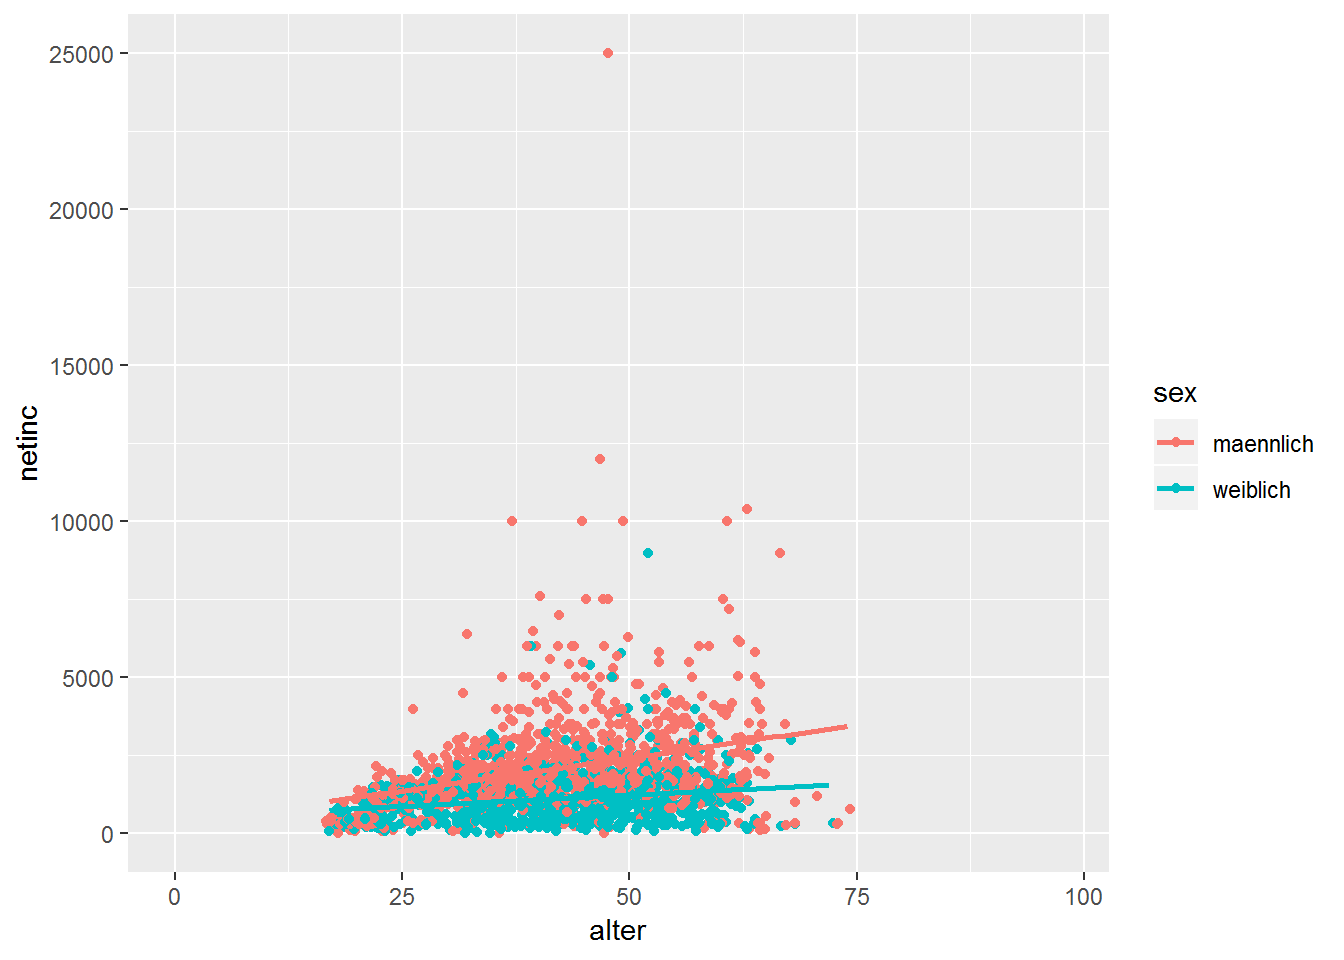
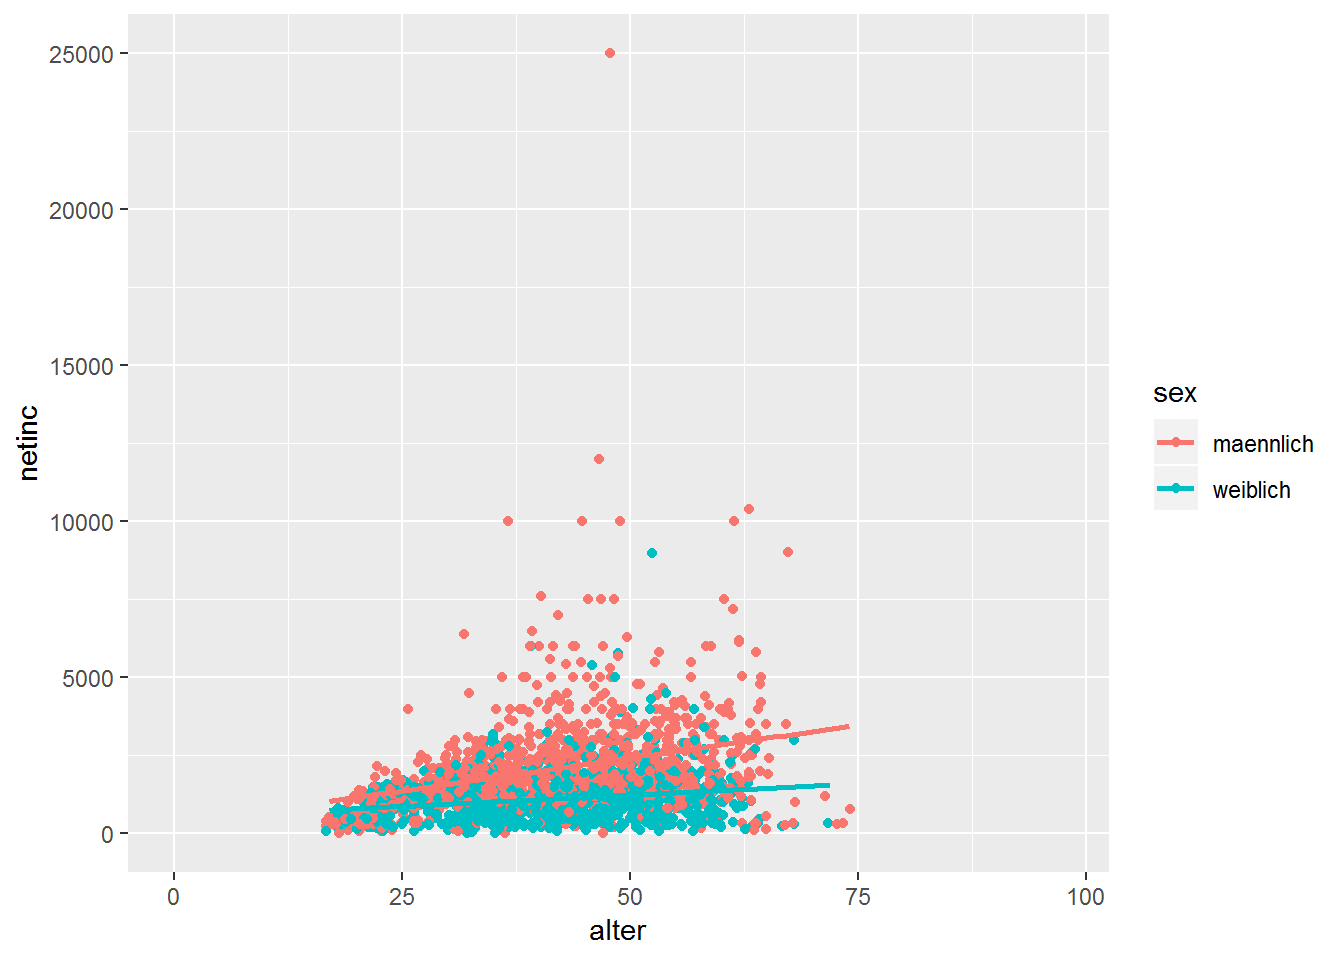
jekyll!

diff --git a/docs/datamanagement.html b/docs/datamanagement.html
@@ -499,12 +499,12 @@ econ$netinc = recode(econ$tp7602,&quot;-3=NA;-2=NA;-1=NA&quot;)
 econ_data &lt;- econ[,c(&quot;netinc&quot;,&quot;alter&quot;,&quot;sex&quot;,&quot;contract&quot;,&quot;actual&quot;,&quot;trust&quot;,&quot;rely&quot;)]
 head(econ_data)</code></pre>
 <pre><code>##       netinc alter      sex contract actual trust rely
-## 10502   1250    27 weiblich     40.0     55     2    4
-## 2853    1800    50 weiblich     38.5     45     2    3
-## 11107   2005    38 männlich     37.5     40     2    2
-## 12494     NA     3 männlich       NA     NA    NA   NA
-## 12655     NA    23 weiblich       NA     NA     3    2
-## 1530      NA    59 weiblich       NA     NA     2    3</code></pre>
+## 11517    500    51 männlich       NA     60     3    2
+## 9085      NA    74 männlich       NA     NA     2    3
+## 93        NA    54 weiblich       NA     NA     2    3
+## 3296    2177    63 männlich     38.5     40     2    3
+## 1811     437    20 weiblich     38.5     39     2    3
+## 2238    1800    56 männlich     40.0     40     2    3</code></pre>
 <pre class="r"><code># Delete NAs
 econ_data &lt;- na.omit(econ_data)
 
@@ -513,8 +513,8 @@ econ_data &lt;- na.omit(econ_data)
 hist(econ$netinc)</code></pre>
 <p><img src="datamanagement_files/figure-html/unnamed-chunk-2-1.png" width="672" /></p>
 <pre class="r"><code>quantile(econ_data$netinc)</code></pre>
-<pre><code>##      0%     25%     50%     75%    100% 
-##     0.0   800.0  1300.0  1838.5 10000.0</code></pre>
+<pre><code>##       0%      25%      50%      75%     100% 
+##     0.00   832.50  1350.00  1863.75 10388.00</code></pre>
 <pre class="r"><code>econ_data$inc_kat &lt;- NA
 econ_data$inc_kat [econ_data$netinc &lt; quantile(econ_data$netinc)[2]] &lt;- &quot;Q1&quot;
 econ_data$inc_kat [econ_data$netinc &gt;= quantile(econ_data$netinc)[2] &amp; econ_data$netinc &lt; quantile(econ_data$netinc)[3]] &lt;- &quot;Q2&quot;
@@ -524,7 +524,7 @@ econ_data$inc_kat [econ_data$netinc &gt;= quantile(econ_data$netinc)[4] ] &lt;- 
 table(econ_data$inc_kat)</code></pre>
 <pre><code>## 
 ##  Q1  Q2  Q3  Q4 
-## 421 409 451 427</code></pre>
+## 419 412 424 419</code></pre>
 </div>
 <div id="advanced-dm-the-tidyverse" class="section level1">
 <h1><span class="header-section-number">3</span> Advanced DM: The tidyverse</h1>
@@ -538,12 +538,12 @@ table(econ_data$inc_kat)</code></pre>
 
 head(econ_data)</code></pre>
 <pre><code>##   netinc alter      sex contract actual trust rely inc_kat alter_squared
-## 1   1250    27 weiblich     40.0     55     2    4      Q2           729
-## 2   1800    50 weiblich     38.5     45     2    3      Q3          2500
-## 3   2005    38 männlich     37.5     40     2    2      Q4          1444
-## 4    325    32 weiblich      8.0      9     3    3      Q1          1024
-## 5   1300    46 männlich     40.0     50     2    2      Q3          2116
-## 6    600    42 männlich     40.0     40     2    3      Q1          1764</code></pre>
+## 1   2177    63 männlich     38.5     40     2    3      Q4          3969
+## 2    437    20 weiblich     38.5     39     2    3      Q1           400
+## 3   1800    56 männlich     40.0     40     2    3      Q3          3136
+## 4   1390    26 männlich     37.0     47     2    4      Q3           676
+## 5    925    44 weiblich     36.0     36     3    2      Q2          1936
+## 6    130    43 weiblich     18.0     18     2    4      Q1          1849</code></pre>
 </div>
 <div id="summarise" class="section level2">
 <h2><span class="header-section-number">3.2</span> Summarise</h2>
@@ -552,7 +552,7 @@ head(econ_data)</code></pre>
   summarise(mean = mean(alter,na.rm = T),
             sd = sd(alter,na.rm = T))</code></pre>
 <pre><code>##       mean       sd
-## 1 40.21194 11.49013</code></pre>
+## 1 40.78196 11.47636</code></pre>
 </div>
 <div id="group_by" class="section level2">
 <h2><span class="header-section-number">3.3</span> group_by</h2>
@@ -564,7 +564,7 @@ head(econ_data)</code></pre>
 <pre><code>## # A tibble: 1 x 2
 ##    mean    sd
 ##   &lt;dbl&gt; &lt;dbl&gt;
-## 1  40.2  11.5</code></pre>
+## 1  40.8  11.5</code></pre>
 </div>
 </div>
 
